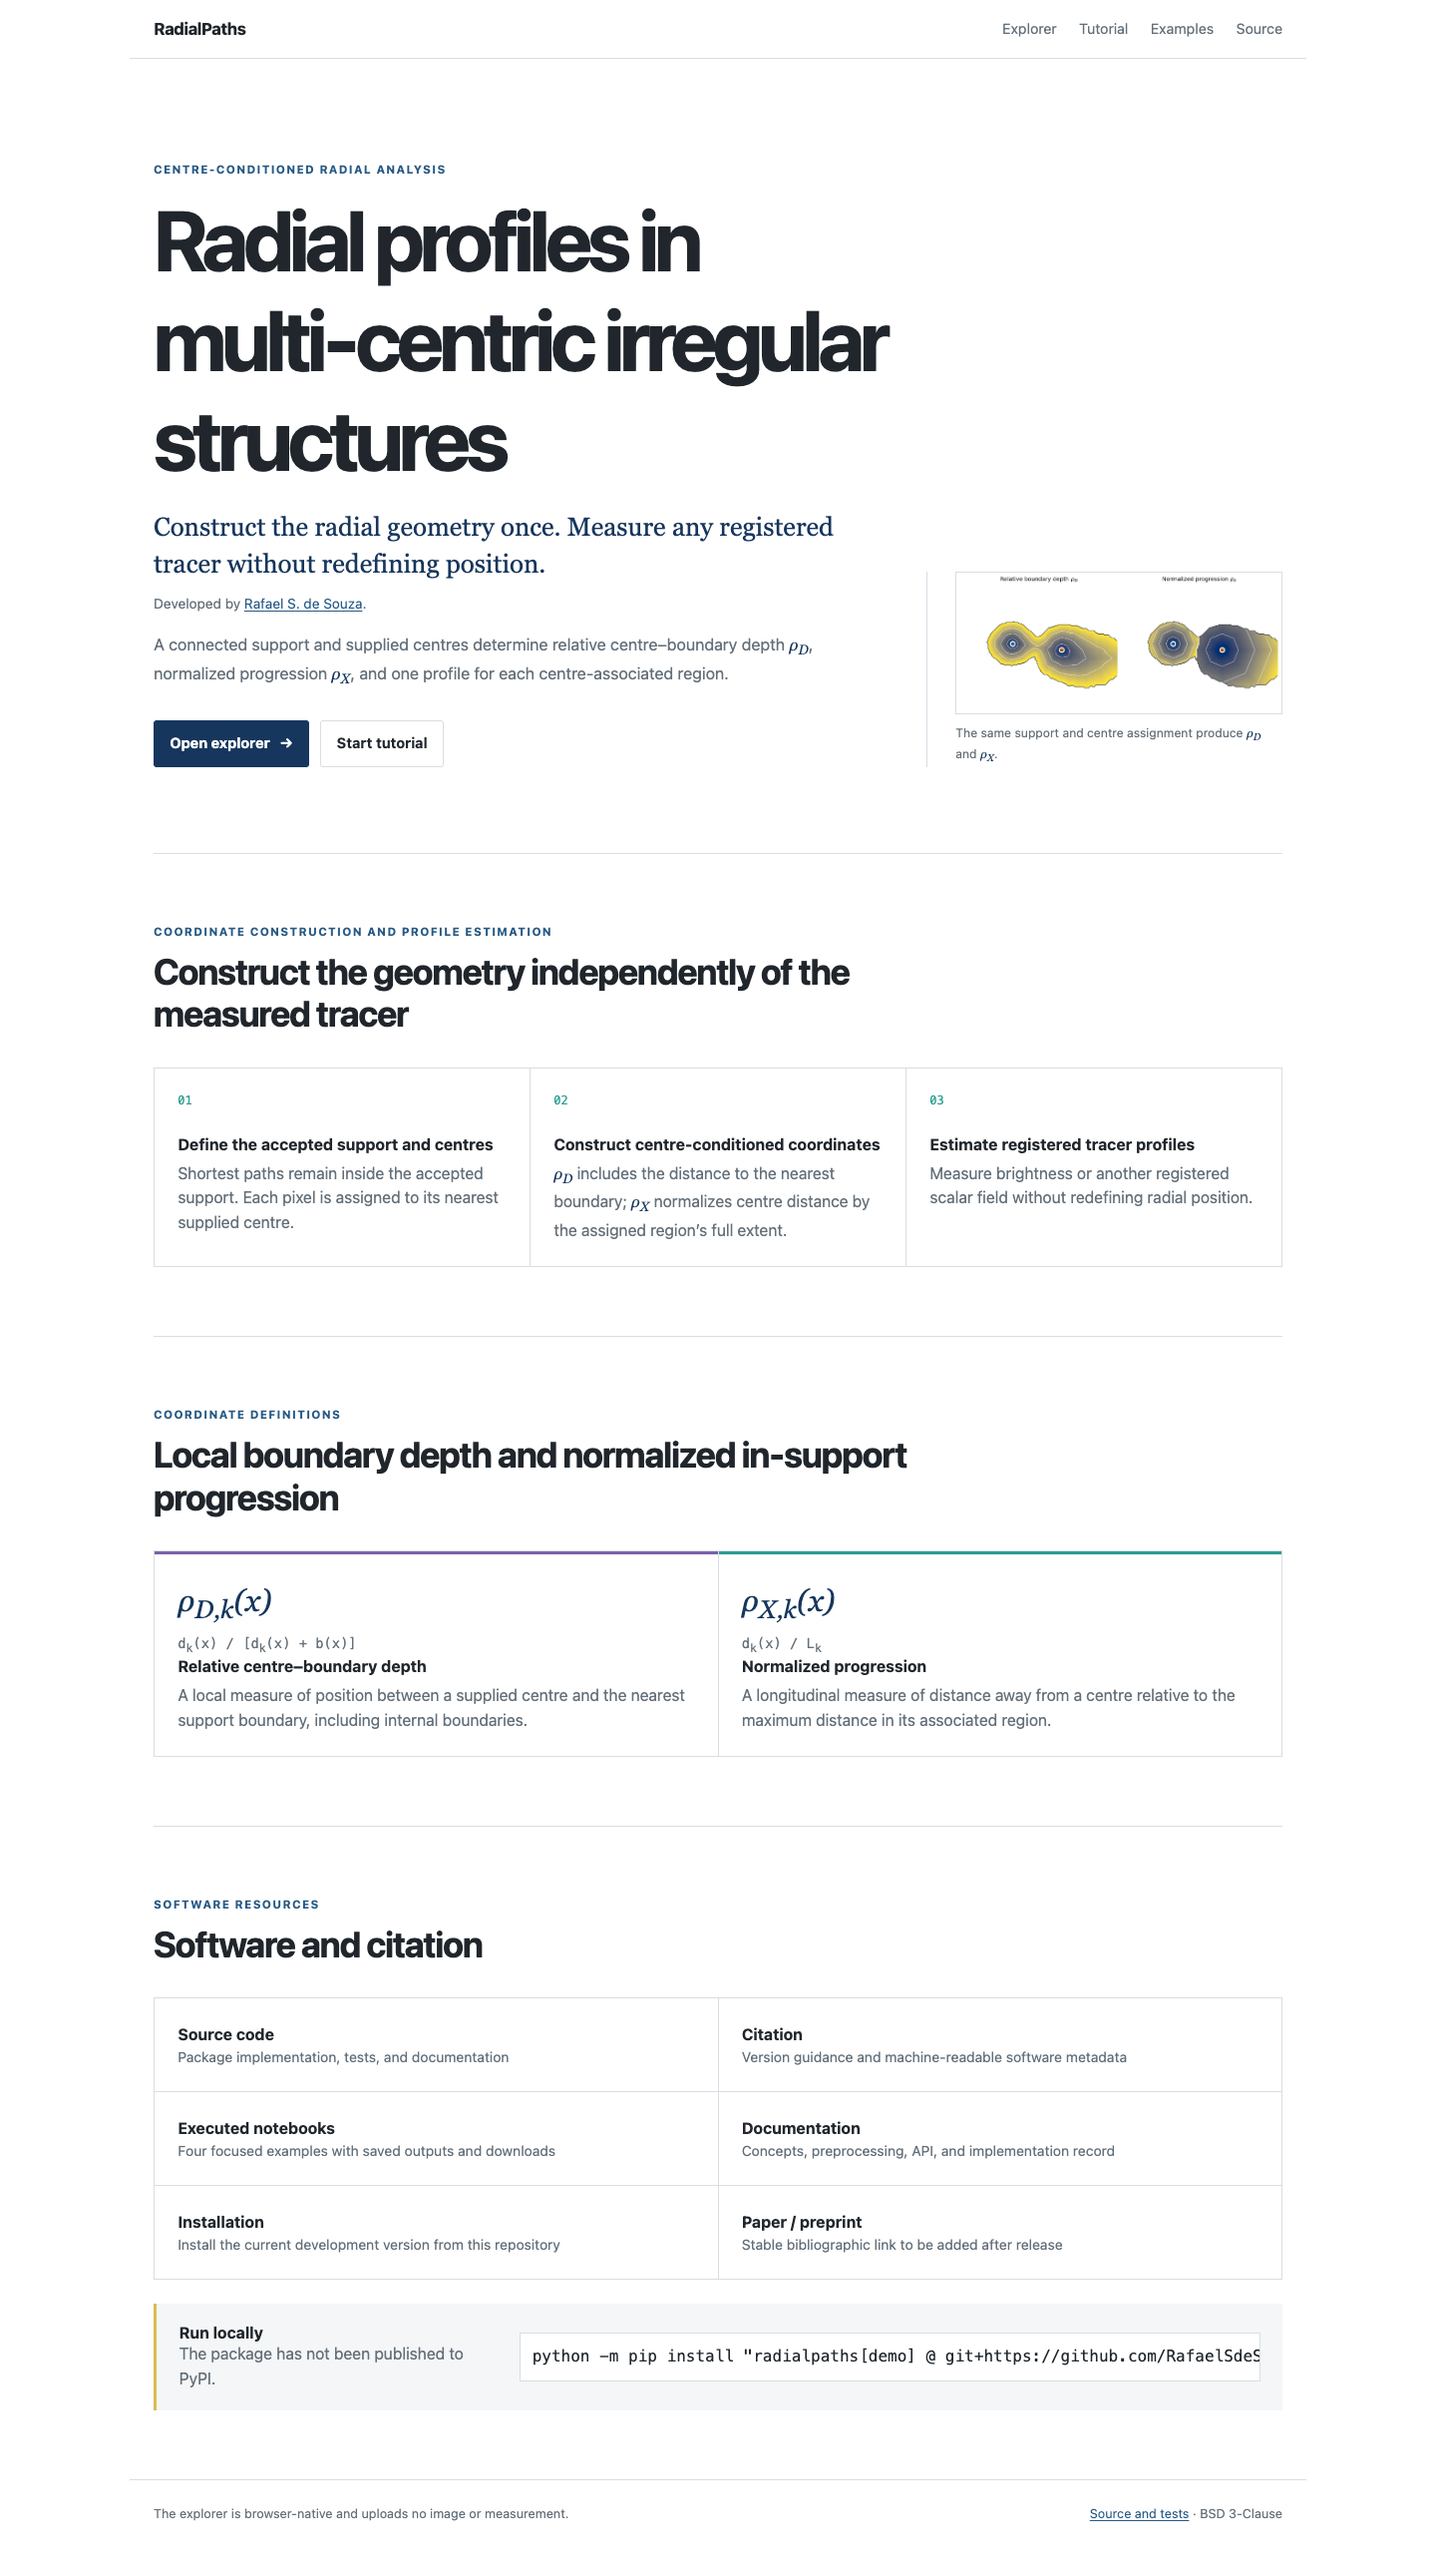
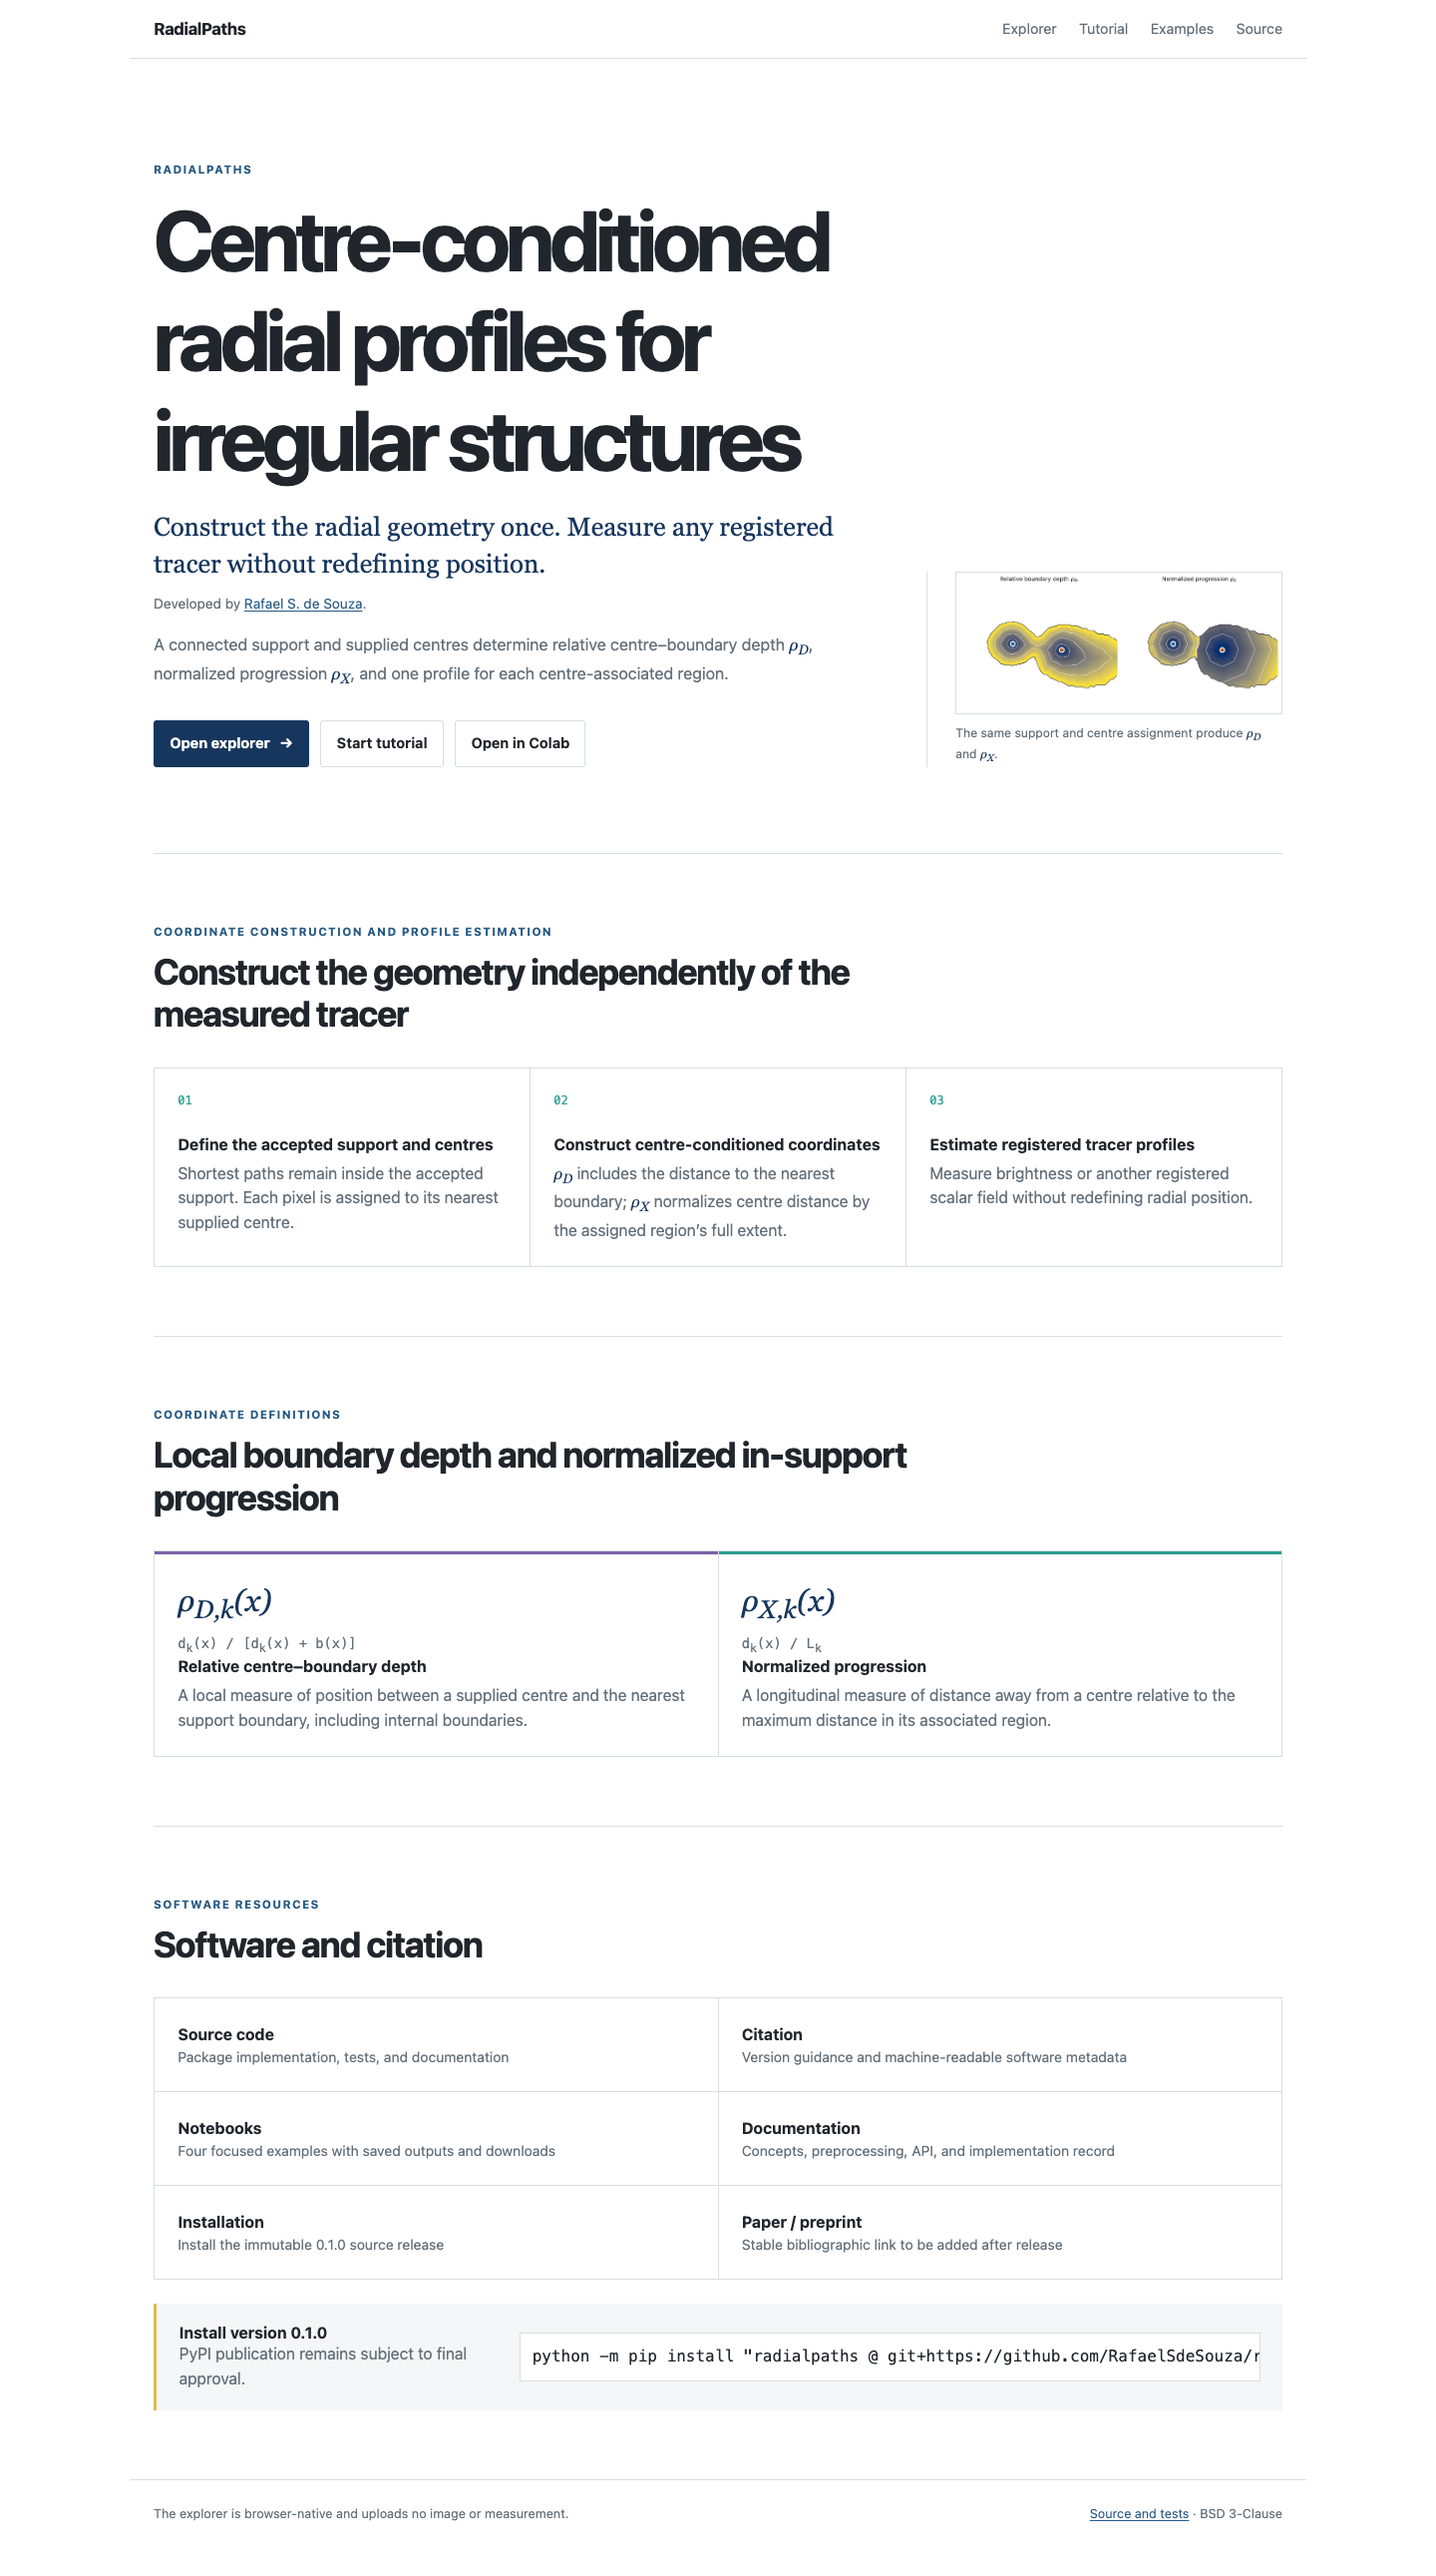
capi-capi

Changed region(s): [[0.0938, 0.062, 0.625, 0.1859], [0.125, 0.8985, 0.25, 0.9295]]

diff --git a/web/assets/site.css b/web/assets/site.css
@@ -194,7 +194,7 @@ code, pre { font-family: "SFMono-Regular", Consolas, ui-monospace, monospace; }
 .notebook-card > div { padding: 1.25rem 1.35rem; }
 .notebook-card h2 { font-size: 1.3rem; }
 .notebook-card h2 a { color: var(--ink); text-decoration: none; }
-.notebook-card h2 a::after { content: ""; inset: 0; position: absolute; }
+.notebook-card h2 a::after { content: ""; cursor: pointer; inset: 0; position: absolute; z-index: 1; }
 .notebook-card h2 a:focus-visible::after { outline: 3px solid var(--blue); outline-offset: -3px; }
 .notebook-card p { color: var(--muted); margin: 0.55rem 0 0; }
 .notebook-card footer { border-top: 1px solid var(--line); display: flex; flex-wrap: wrap; gap: 0.9rem; margin: 0; padding: 0.8rem 1.35rem 1rem; }
